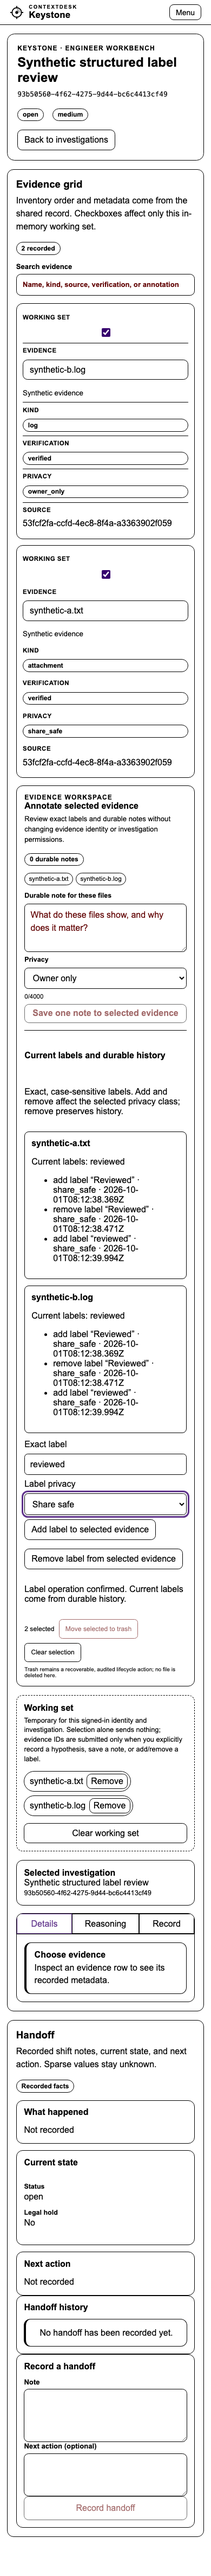
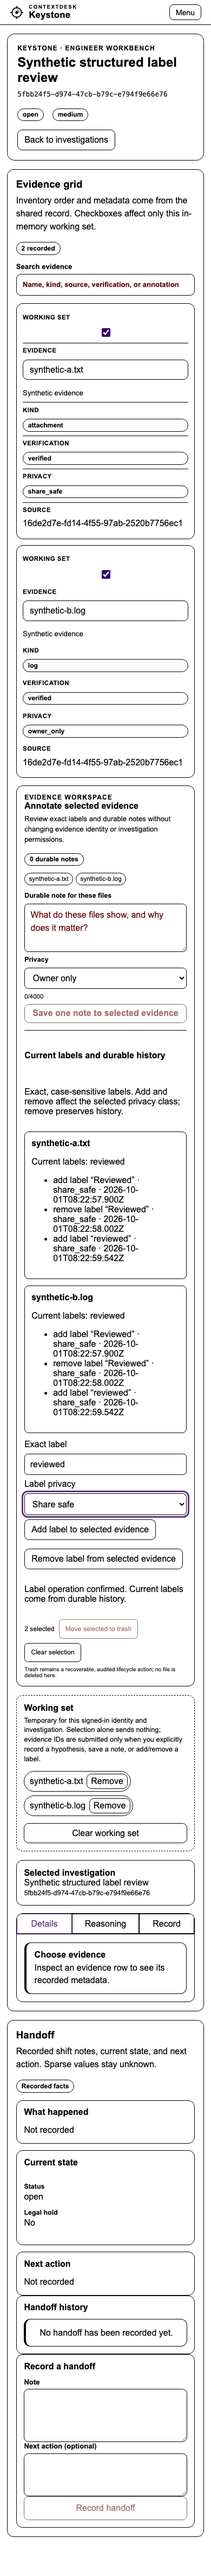
Keep label semantics on the public Runtime boundary

Changed region(s): [[0.4923, 0.5298, 0.5538, 0.561], [0.4923, 0.4675, 0.5538, 0.4986]]

diff --git a/collab/web/src/investigations/strategies/shared/EvidenceAnnotationWorkspace.tsx b/collab/web/src/investigations/strategies/shared/EvidenceAnnotationWorkspace.tsx
@@ -1,7 +1,8 @@
 import { useEffect, useId, useMemo, useRef, useState } from "react";
 import { StrategyActionRow, StrategyBadge, StrategyStateNotice } from "./presentation.js";
 
-import { parseEvidenceLabel, projectEvidenceLabels, type EvidenceLabelMutationV1 } from "../../runtime/annotation-contract.js";
+interface EvidenceLabelMutationView { readonly label: string; readonly operation: "add" | "remove" }
+interface EvidenceLabelEventView extends EvidenceLabelMutationView { readonly sequence: number; readonly intentKey: string }
 
 const MAX_BULK_IDS = 64;
 
@@ -17,7 +18,7 @@ interface AnnotationItem {
   readonly privacyClass: "owner_only" | "share_safe";
   readonly body?: string;
   readonly createdAt?: string;
-  readonly labelEvent?: import("../../runtime/annotation-contract.js").EvidenceLabelEventV1;
+  readonly labelEvent?: EvidenceLabelEventView;
 }
 
 interface AnnotationView {
@@ -37,7 +38,7 @@ interface BulkResult {
 
 type CommandResult = { readonly status: string; readonly value?: unknown; readonly error?: unknown };
 type BulkCommandInput = {
-  readonly labelMutation?: EvidenceLabelMutationV1;
+  readonly labelMutation?: EvidenceLabelMutationView;
   readonly artifactIds: readonly string[];
   readonly body: string;
   readonly privacyClass: "owner_only" | "share_safe";
@@ -47,6 +48,11 @@ type BulkCommand = (command: BulkCommandInput) => Promise<CommandResult>;
 type BulkMutation = { readonly status: "idle" | "running" | "succeeded" | "failed"; readonly error?: unknown };
 
 export interface EvidenceAnnotationWorkspaceProps {
+  /** Canonical semantics supplied through the public Runtime seam; no local truth model. */
+  readonly labelModel: {
+    readonly parse: (value: unknown) => string;
+    readonly project: (history: readonly AnnotationItem[]) => readonly {readonly artifactId: string; readonly label: string}[];
+  };
   /** Includes the focused case and identity so drafts cannot cross scopes. */
   readonly scopeKey: string;
   readonly readCompletion?: {readonly requested: number; readonly succeeded: number; readonly failed: number} | undefined;
@@ -101,6 +107,7 @@ function resultTone(outcome: BulkResultItem["outcome"]): "success" | "warning" |
  * authorization check, idempotency decision, and durable result.
  */
 export function EvidenceAnnotationWorkspace({
+  labelModel,
   scopeKey,
   readCompletion,
   evidence,
@@ -122,7 +129,7 @@ export function EvidenceAnnotationWorkspace({
     noteOperationRef.current = false;
     return await bulkCommand(input);
   };
-  const labelProps = {scopeKey, evidence, selectedArtifactIds, annotations, canAnnotate, canReadPrivate, readOnly, bulkCommand: labelCommand, bulkMutation, bulkErrorCopy, onRefresh, onClearSelection, ...(readCompletion === undefined ? {} : {readCompletion})};
+  const labelProps = {labelModel, scopeKey, evidence, selectedArtifactIds, annotations, canAnnotate, canReadPrivate, readOnly, bulkCommand: labelCommand, bulkMutation, bulkErrorCopy, onRefresh, onClearSelection, ...(readCompletion === undefined ? {} : {readCompletion})};
   const labels = useLabelIntent(labelProps);
   const bodyId = useId();
   const privacyId = useId();
@@ -369,7 +376,7 @@ export function EvidenceAnnotationWorkspace({
 }
 
 
-interface FrozenLabelIntent extends EvidenceLabelMutationV1 {
+interface FrozenLabelIntent extends EvidenceLabelMutationView {
   readonly artifactIds: readonly string[];
   readonly privacyClass: "owner_only" | "share_safe";
   readonly idempotencyKey: string;
@@ -387,10 +394,10 @@ export function useLabelIntent(props: EvidenceAnnotationWorkspaceProps) {
   const privacy = draft.epoch === epoch ? draft.privacy : props.canReadPrivate ? "owner_only" as const : "share_safe" as const;
   const available = props.annotations.availability === "available" && props.annotations.refresh !== "failed" && props.annotations.refresh !== "loading";
   const history = (available ? props.annotations.value ?? [] : []).filter(row => props.canReadPrivate || row.privacyClass !== "owner_only");
-  const current = projectEvidenceLabels(history);
+  const current = props.labelModel.project(history);
   const clock = props.readCompletion;
   const causal = shown.phase === "unknown" && clock !== undefined && clock.succeeded > shown.barrier && clock.succeeded === clock.requested && available;
-  const lane = projectEvidenceLabels(history.filter(row => row.privacyClass === shown.intent?.privacyClass));
+  const lane = props.labelModel.project(history.filter(row => row.privacyClass === shown.intent?.privacyClass));
   const proven = causal && shown.intent !== null && shown.intent.artifactIds.every(id => props.evidence.some(row => row.id === id)
     && lane.some(row => row.artifactId === id && row.label === shown.intent!.label) === (shown.intent!.operation === "add"));
   useEffect(() => {
@@ -399,7 +406,7 @@ export function useLabelIntent(props: EvidenceAnnotationWorkspaceProps) {
     setState({epoch,phase:"idle",intent:null,barrier:0,feedback:"Refreshed history confirms the desired label state; no second mutation was sent."});
   }, [proven, epoch]);
   let valid = false;
-  try { parseEvidenceLabel(text.trim()); valid = true; } catch { /* Strict contract disables invalid text. */ }
+  try { props.labelModel.parse(text.trim()); valid = true; } catch { /* Strict contract disables invalid text. */ }
   const ready = props.canAnnotate && !props.readOnly && props.bulkCommand !== null && available && props.bulkMutation.status !== "running"
     && props.selectedArtifactIds.length >= 1 && props.selectedArtifactIds.length <= MAX_BULK_IDS && new Set(props.selectedArtifactIds).size === props.selectedArtifactIds.length
     && props.selectedArtifactIds.every(id => props.evidence.some(row => row.id === id)) && valid && (privacy !== "owner_only" || props.canReadPrivate);

diff --git a/collab/web/src/investigations/strategies/shared/EvidenceLabelWorkspace.test.tsx b/collab/web/src/investigations/strategies/shared/EvidenceLabelWorkspace.test.tsx
@@ -2,10 +2,11 @@ import {act,cleanup,fireEvent,render,renderHook,screen,waitFor} from "@testing-l
 import {useLayoutEffect} from "react";
 import {afterEach,describe,expect,it,vi} from "vitest";
 import {EvidenceAnnotationWorkspace,useLabelIntent,type EvidenceAnnotationWorkspaceProps} from "./EvidenceAnnotationWorkspace.js";
+import {evidenceLabelModel} from "../../runtime/public.js";
 afterEach(cleanup);
 const unknown={status:"failed",error:{kind:"unavailable",reason:"commit_outcome_unknown"}};
 function props(overrides:Partial<EvidenceAnnotationWorkspaceProps>={}):EvidenceAnnotationWorkspaceProps {
- return {scopeKey:"A:alice:authority1",evidence:[{id:"a",filename:"a.log",uri:null},{id:"b",filename:"b.log",uri:null}],selectedArtifactIds:["a","b"],annotations:{availability:"available",value:[],refresh:"settled"},canAnnotate:true,canReadPrivate:true,readOnly:false,bulkCommand:vi.fn(async(_input:unknown)=>unknown),bulkMutation:{status:"idle"},bulkErrorCopy:null,onRefresh:vi.fn(async()=>{}),onClearSelection:vi.fn(),readCompletion:{requested:1,succeeded:1,failed:-1},...overrides};
+ return {labelModel:evidenceLabelModel,scopeKey:"A:alice:authority1",evidence:[{id:"a",filename:"a.log",uri:null},{id:"b",filename:"b.log",uri:null}],selectedArtifactIds:["a","b"],annotations:{availability:"available",value:[],refresh:"settled"},canAnnotate:true,canReadPrivate:true,readOnly:false,bulkCommand:vi.fn(async(_input:unknown)=>unknown),bulkMutation:{status:"idle"},bulkErrorCopy:null,onRefresh:vi.fn(async()=>{}),onClearSelection:vi.fn(),readCompletion:{requested:1,succeeded:1,failed:-1},...overrides};
 }
 describe("mounted structured label workspace",()=>{
  it("freezes exact explicit operation and targets across selection changes, and requires a causal successful read after every unknown",async()=>{

diff --git a/collab/web/src/investigations/strategies/shared/EvidenceAnnotationWorkspace.test.tsx b/collab/web/src/investigations/strategies/shared/EvidenceAnnotationWorkspace.test.tsx
@@ -4,6 +4,7 @@ import {
   EvidenceAnnotationWorkspace,
   type EvidenceAnnotationWorkspaceProps,
 } from "./EvidenceAnnotationWorkspace.js";
+import {evidenceLabelModel} from "../../runtime/public.js";
 import type { ArtifactAnnotationV1, ArtifactAnnotationBulkResultV1, ArtifactV1, CommandOutcome } from "../../runtime/public.js";
 
 function artifact(id: string): ArtifactV1 {
@@ -52,6 +53,7 @@ function mount(overrides: Partial<EvidenceAnnotationWorkspaceProps> = {}) {
     },
   }));
   const props: EvidenceAnnotationWorkspaceProps = {
+    labelModel: evidenceLabelModel,
     scopeKey: "case-1\u0000alice",
     evidence: [artifact("artifact-a"), artifact("artifact-b"), artifact("artifact-c")],
     selectedArtifactIds: [],
@@ -147,6 +149,7 @@ describe("shared evidence annotation workspace", () => {
     expect(screen.getByRole("combobox", { name: "Privacy" }).getAttribute("disabled")).not.toBeNull();
     expect(screen.getByRole("button", { name: "Save one note to selected evidence" }).getAttribute("disabled")).not.toBeNull();
     rerender(<EvidenceAnnotationWorkspace
+      labelModel={evidenceLabelModel}
       scopeKey={props.scopeKey}
       evidence={[artifact("artifact-a"), artifact("artifact-b"), artifact("artifact-c")]}
       selectedArtifactIds={["artifact-a", "artifact-b"]}

diff --git a/collab/web/src/investigations/strategies/keystone/KeystoneStrategy.tsx b/collab/web/src/investigations/strategies/keystone/KeystoneStrategy.tsx
@@ -1,5 +1,6 @@
 import { useEffect, useMemo, useRef, useState } from "react";
 import {
+  evidenceLabelModel,
   selectEvidenceInventory,
   selectResourceView,
   useInvestigationRuntime,
@@ -554,7 +555,7 @@ export function KeystoneStrategy(props: InvestigationStrategyShellProps) {
             />
           </>
         ) : null}
-        <EvidenceAnnotationWorkspace scopeKey={scope} evidence={evidenceRows.map(row => row.evidence)} selectedArtifactIds={workingSet}
+        <EvidenceAnnotationWorkspace labelModel={evidenceLabelModel} scopeKey={scope} evidence={evidenceRows.map(row => row.evidence)} selectedArtifactIds={workingSet}
           annotations={selectResourceView(runtime.resources.artifactAnnotations)} readCompletion={runtime.resources.annotationReadCompletion}
           canAnnotate={runtime.capabilities.canContribute} canReadPrivate={runtime.capabilities.canReadPrivate} readOnly={!runtime.capabilities.canContribute}
           bulkCommand={runtime.commands.createArtifactAnnotations} bulkMutation={runtime.mutations.createArtifactAnnotations} bulkErrorCopy={null}

diff --git a/collab/web/src/investigations/strategies/investigation-first/InvestigationFirstStrategy.tsx b/collab/web/src/investigations/strategies/investigation-first/InvestigationFirstStrategy.tsx
@@ -1,5 +1,6 @@
 import { useEffect, useLayoutEffect, useMemo, useRef, useState, type FormEvent } from "react";
 import {
+  evidenceLabelModel,
   selectEvidenceInventory,
   selectResourceView,
   useInvestigationRuntime,
@@ -545,7 +546,7 @@ export function InvestigationFirstStrategy(props: InvestigationStrategyShellProp
           })}
         </ul>
       ) : null}
-      <EvidenceAnnotationWorkspace
+      <EvidenceAnnotationWorkspace labelModel={evidenceLabelModel}
         scopeKey={`${runtime.presentationScopeKey}\u0000${props.focusCaseId ?? "none"}\u0000${runtime.identity.id}\u0000${runtime.identity.username}`}
         readCompletion={runtime.resources.annotationReadCompletion}
         evidence={inventory.availability === "available" ? inventory.value.map(({ evidence }) => evidence) : []}

diff --git a/collab/web/src/investigations/runtime/gateway.ts b/collab/web/src/investigations/runtime/gateway.ts
@@ -76,6 +76,7 @@ import {
 import type {
   ArtifactAnnotationBulkResultV1,
   ArtifactAnnotationV1,
+  EvidenceLabelMutationV1,
 } from "./annotation-contract.js";
 import { protectedApiFetch } from "../../protected-api.js";
 import {
@@ -205,7 +206,7 @@ export interface CreateArtifactAnnotationInput {
 
 /** Transport-ready input for one atomic, bounded annotation target set. */
 export interface CreateArtifactAnnotationsBulkInput {
-  readonly labelMutation?: import("./annotation-contract.js").EvidenceLabelMutationV1;
+  readonly labelMutation?: EvidenceLabelMutationV1;
   readonly artifactIds: readonly string[];
   readonly body: string;
   readonly privacyClass?: PrivacyClass;

diff --git a/collab/web/src/investigations/runtime/controllers/use-artifact-annotations.ts b/collab/web/src/investigations/runtime/controllers/use-artifact-annotations.ts
@@ -1,6 +1,7 @@
 import type {
   ArtifactAnnotationBulkResultV1,
   ArtifactAnnotationV1,
+  EvidenceLabelMutationV1,
 } from "../annotation-contract.js";
 import type {
   CreateArtifactAnnotationsBulkInput,
@@ -404,7 +405,7 @@ export function useCreateArtifactAnnotation(
 }
 
 export interface CreateArtifactAnnotationsBulkCommand {
-  readonly labelMutation?: import("../annotation-contract.js").EvidenceLabelMutationV1;
+  readonly labelMutation?: EvidenceLabelMutationV1;
   /** The target set is submitted as one atomic server operation. */
   readonly artifactIds: readonly string[];
   readonly body: string;

diff --git a/collab/web/src/investigations/runtime/public.ts b/collab/web/src/investigations/runtime/public.ts
@@ -95,3 +95,7 @@ export type {
   InvestigationOperationsQueueQueryV1,
   InvestigationOperationsQueueRowV1,
 } from "@cd-collab/contracts/investigation-operations-queue";
+
+// Canonical label semantics flow through Runtime into the presentation-only workspace.
+import { parseEvidenceLabel, projectEvidenceLabels } from "./annotation-contract.js";
+export const evidenceLabelModel = Object.freeze({parse: parseEvidenceLabel, project: projectEvidenceLabels});

diff --git a/docs/testing/GOAL_10_QUALIFICATION_V1.md b/docs/testing/GOAL_10_QUALIFICATION_V1.md
@@ -81,7 +81,9 @@ status, preventing false note warnings from an uncertain label result.
 durable notes/history, explicit add/remove and privacy controls, and truthful
 unavailable/stale/loading states. Investigation First retains its existing
 selection. Keystone adopts the same workspace through public Runtime and its
-existing working set. Both are mounted in the actual-server browser proof.
+existing working set. Both mounts supply a frozen canonical label model from
+Runtime; the shared kit owns structural view types and never imports wire
+contract behavior or maintains another label truth model. Both are mounted in the actual-server browser proof.
 Beacon has no compatible evidence selection; War Room's CaseBoard selection
 uses its separate existing transport rather than a Runtime annotation surface.
 Neither receives a parallel inventory or extra read for visual symmetry.
@@ -125,11 +127,11 @@ Required timing repeats run in five separate processes, 30/30 tests each
 
 | Run | Exit | Wall seconds |
 | --- | --- | --- |
-| 1 | 0 | 2.122 |
-| 2 | 0 | 1.921 |
-| 3 | 0 | 1.642 |
-| 4 | 0 | 2.099 |
-| 5 | 0 | 1.985 |
+| 1 | 0 | 1.263 |
+| 2 | 0 | 1.267 |
+| 3 | 0 | 1.248 |
+| 4 | 0 | 1.238 |
+| 5 | 0 | 1.243 |
 
 The next unused spec prefix is 44. The dedicated config has one worker and
 zero retries. With `CD_GOAL10_JOINED=1`, it starts the actual built server on a
@@ -147,13 +149,13 @@ Three independent final-source Chromium journeys passed with no retries:
 
 | Run | Exit | Wall seconds |
 | --- | --- | --- |
-| 1 | 0 | 5.338 |
-| 2 | 0 | 5.908 |
-| 3 | 0 | 5.443 |
+| 1 | 0 | 5.159 |
+| 2 | 0 | 3.688 |
+| 3 | 0 | 5.069 |
 
 [Sanitized narrow Keystone screenshot](../assets/goal10/keystone-narrow-forced-colors.png)
 was inspected for legibility, controls and overflow. Its SHA-256 is
[2 lines of base64/hex data omitted]
 The joined test explicitly skips without its real-server opt-in; a generic
 fixture-browser run is not this proof. The dedicated local qualification has
 no environment skips. The unchanged hosted fixture lane does not opt into it.
@@ -185,7 +187,9 @@ equivalent uncertain-result unlocking, retained retry after repeated unknown,
 canonical property-order binding, nullable SQL checks, and hidden quota oracle.
 The narrow follow-up on the defensive request snapshot, export messaging and
 note ownership found a stale note flag; its closure also preserved known-note
-failure feedback, with a mounted regression. Final reviewer disposition:
+failure feedback, with a mounted regression. A final narrow wiring recheck
+confirmed canonical semantics flow through public Runtime after the boundary
+correction, with no new finding. Final reviewer disposition:
 **no remaining actionable findings**. Source review is not test execution,
 independent hosted verification or a broad product acceptance claim.
 
@@ -200,6 +204,16 @@ note-feedback refinement was corrected after source review. Its first test
 invocation used the repository root instead of the collab workspace and failed
 to start; the corrected invocation passed. Earlier successful repeat runs were
 retained locally, then repeated after the final feedback correction.
+
+The first committed-candidate full pass at `da7632cd` passed typecheck/lint,
+948 contract tests and 1,434 server tests (19 environment skips), but failed one
+web architecture-boundary assertion (1,850 web tests passed). It reported three
+inline type imports and the shared kit's direct contract-behavior import.
+Ordinary type imports and a canonical public Runtime model close this without
+weakening the boundary checker. The 52-test affected suite then passed, and the
+required five timing/three browser processes were repeated on the correction.
+The correction is a normal follow-up commit, with reviewed history retained.
+The final exact-head full result is reported in the draft PR body.
 
 Baseline root CI [36768372784](https://github.com/chriscase/ContextDesk/actions/runs/36768372784)
 on the base is still attempt 1, completed/failure, Windows Rust shard 4 job
@@ -256,9 +270,11 @@ collab/web/src/investigations/runtime/controllers/use-artifact-annotations.test.
 collab/web/src/investigations/runtime/controllers/use-artifact-annotations.ts
 collab/web/src/investigations/runtime/gateway.test.ts
 collab/web/src/investigations/runtime/gateway.ts
+collab/web/src/investigations/runtime/public.ts
 collab/web/src/investigations/runtime/testkit/fixtures.test.ts
 collab/web/src/investigations/strategies/investigation-first/InvestigationFirstStrategy.tsx
 collab/web/src/investigations/strategies/keystone/KeystoneStrategy.tsx
+collab/web/src/investigations/strategies/shared/EvidenceAnnotationWorkspace.test.tsx
 collab/web/src/investigations/strategies/shared/EvidenceAnnotationWorkspace.tsx
 collab/web/src/investigations/strategies/shared/EvidenceLabelWorkspace.test.tsx
 collab/web/src/styles/investigation-strategy-shared.css
